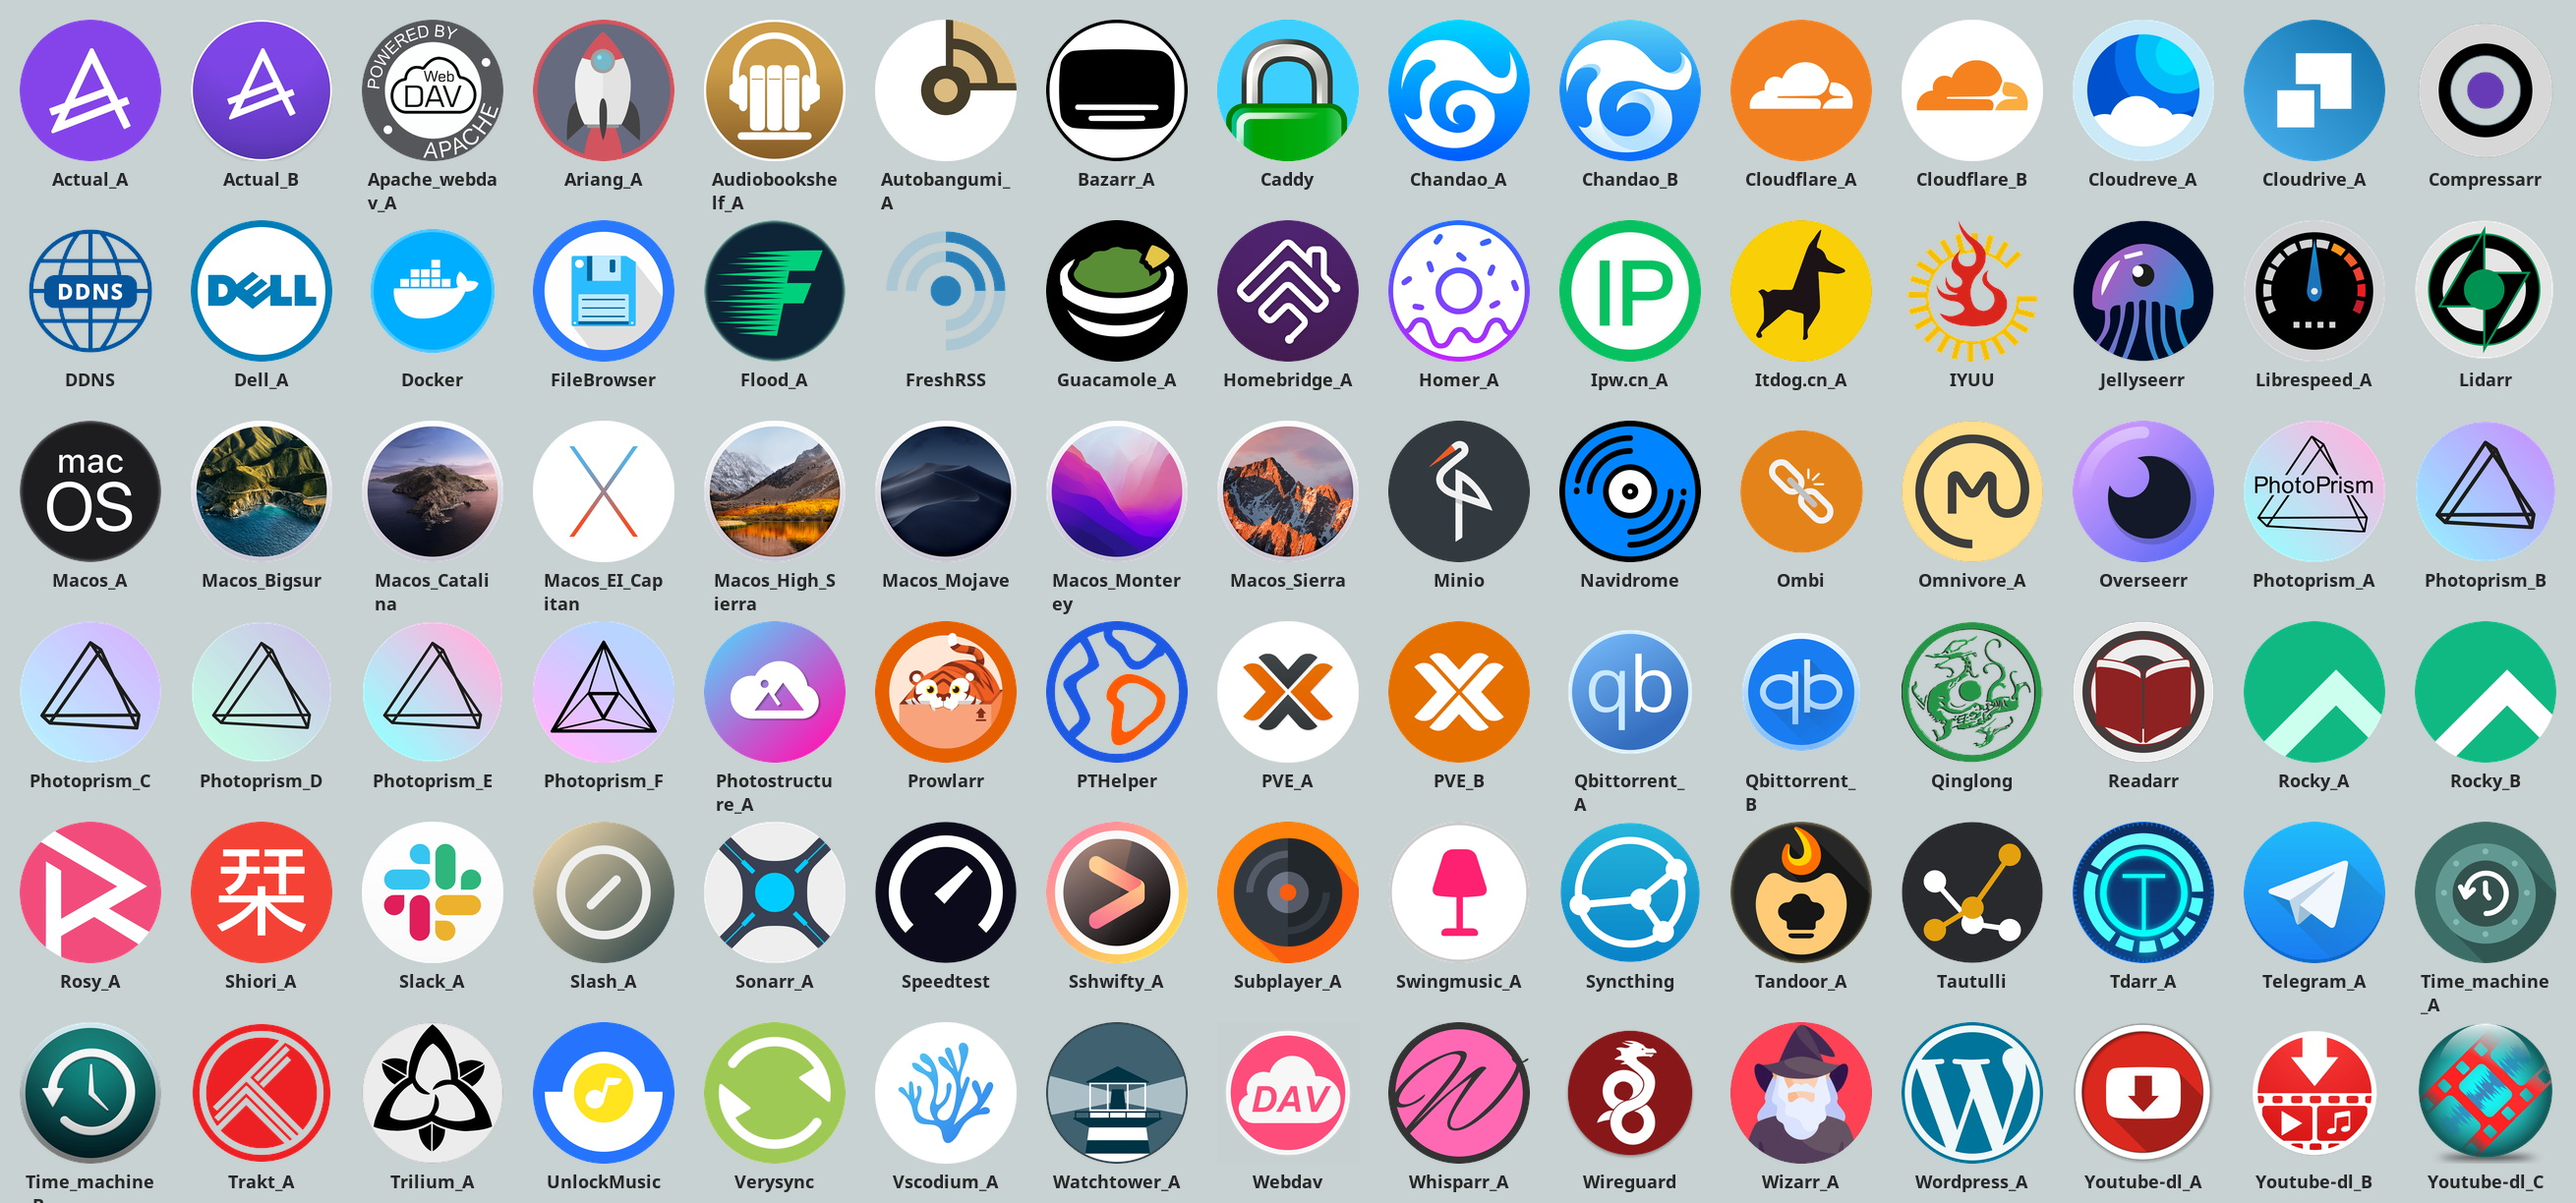
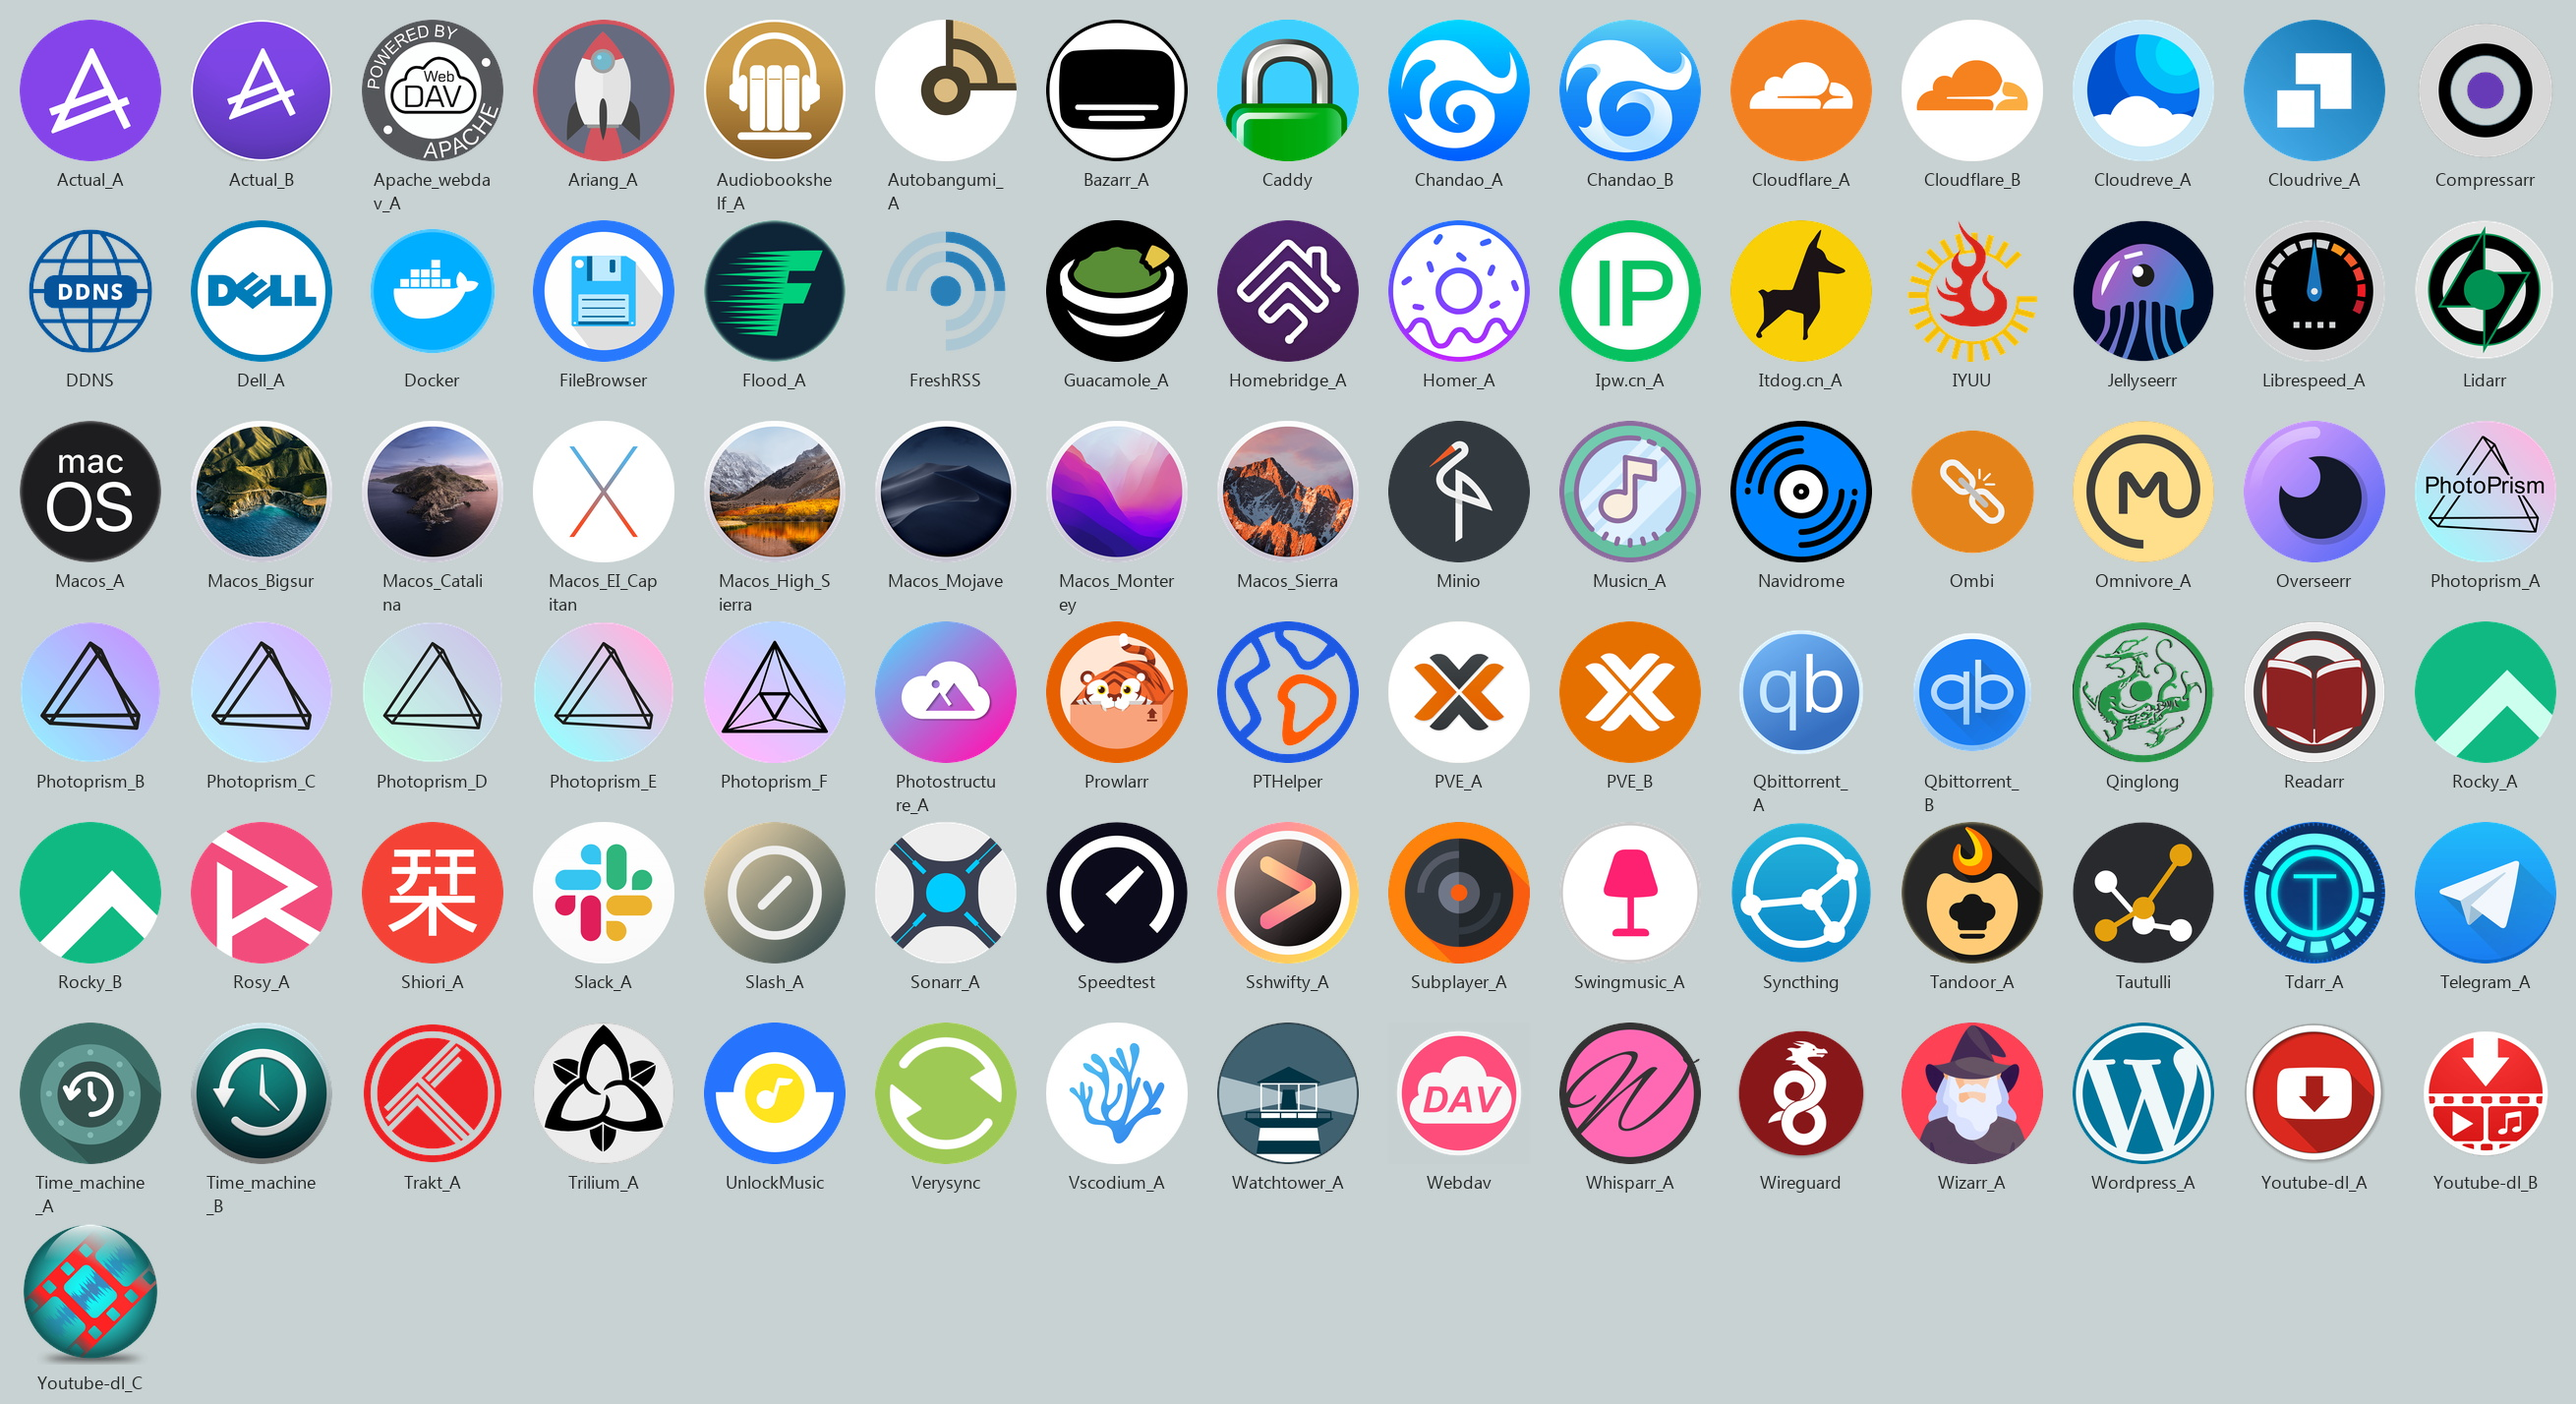
Add 2Fas、Anytype、AppFlowy、ClashVerge、Dae、GoogleVoice、LogSeq、Musicn、Obsidian、SeaTable、ShadowRocket、SingBox、SurfBoard、StandardNotes、Univer, update AutoSymlink、Xunlei、Memos.

diff --git a/README.md b/README.md
@@ -75,7 +75,7 @@
 
 - 例如，图标文件在 `/mnt/user/appdata/icons` 下，则图标地址填写 `/mnt/user/appdata/icons/xxxxx.png` 或者 `http://127.0.0.1/mnt/user/appdata/icons/xxxxx.png`，将 xxxxx 换成对应的图标名称即可，<a href="#圆角矩形图标"><strong>图标名称预览在此 »</strong></a>
 
-# 图标预览（当前共计 1045 个）
+# 图标预览（当前共计 1069 个）
 ## 圆角矩形图标
 <!-- START BORDER-RADIUS ICONS -->
 <img src="https://github.com/xushier/HD-Icons/blob/main/_icons-radius.jpg?raw=true" alt="radius">
@@ -106,3 +106,4 @@ The use of these names, trademarks and brands appearing in these image files, do
 ---
 
 [![Star History Chart](https://api.star-history.com/svg?repos=xushier/HD-Icons&type=Date)](https://star-history.com/#xushier/HD-Icons&Date)
+
